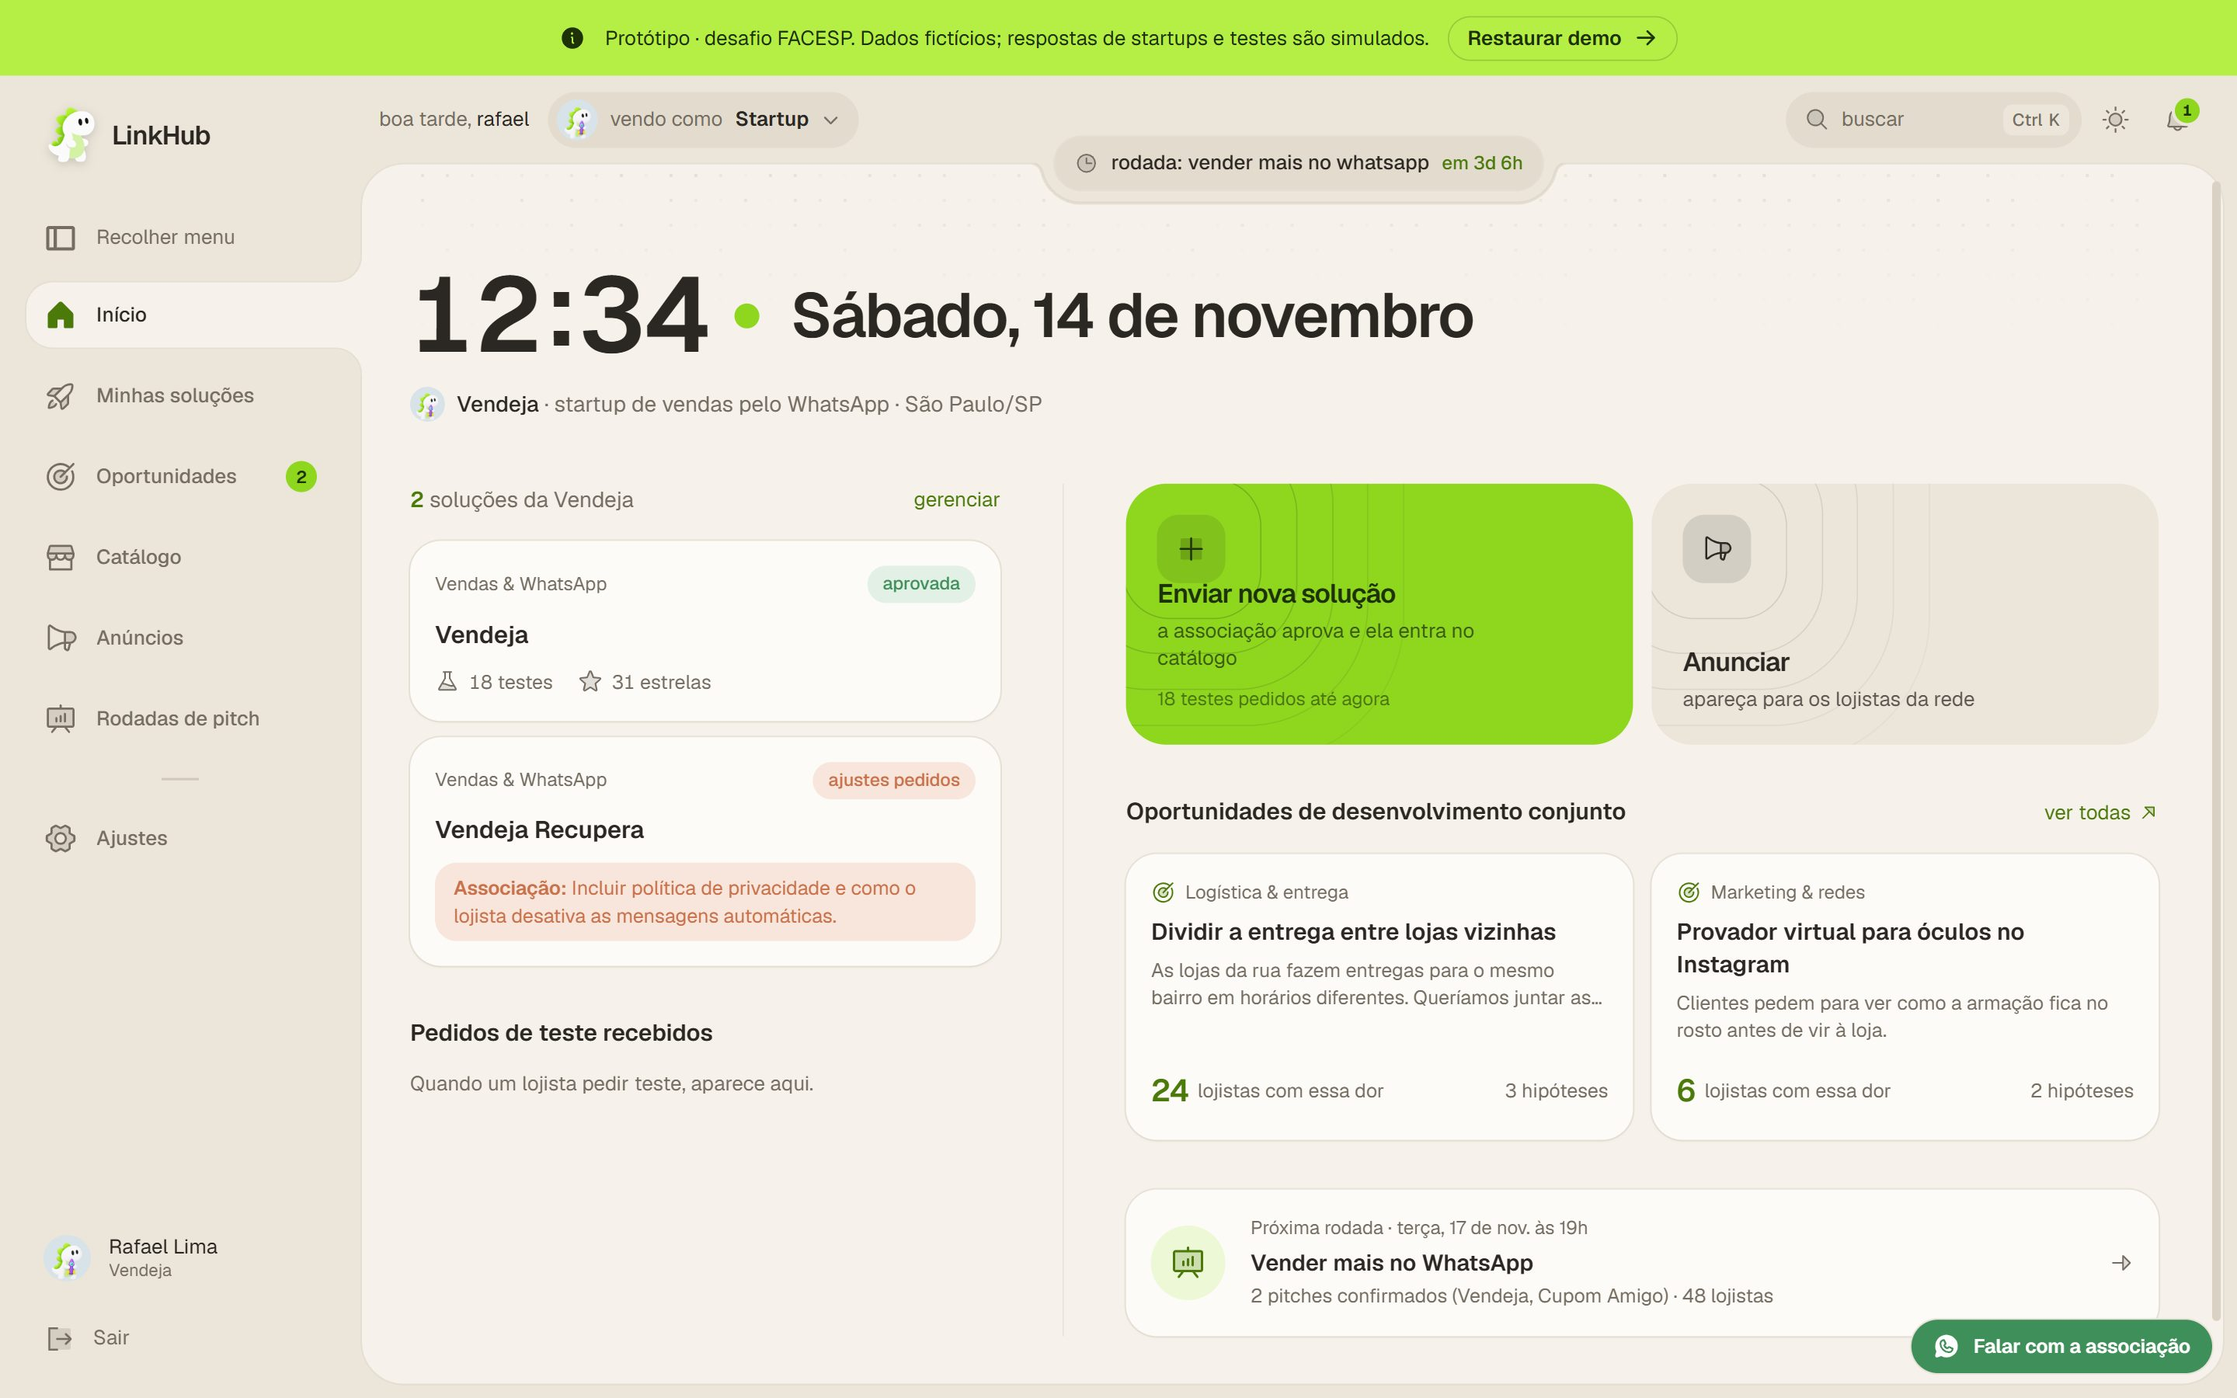
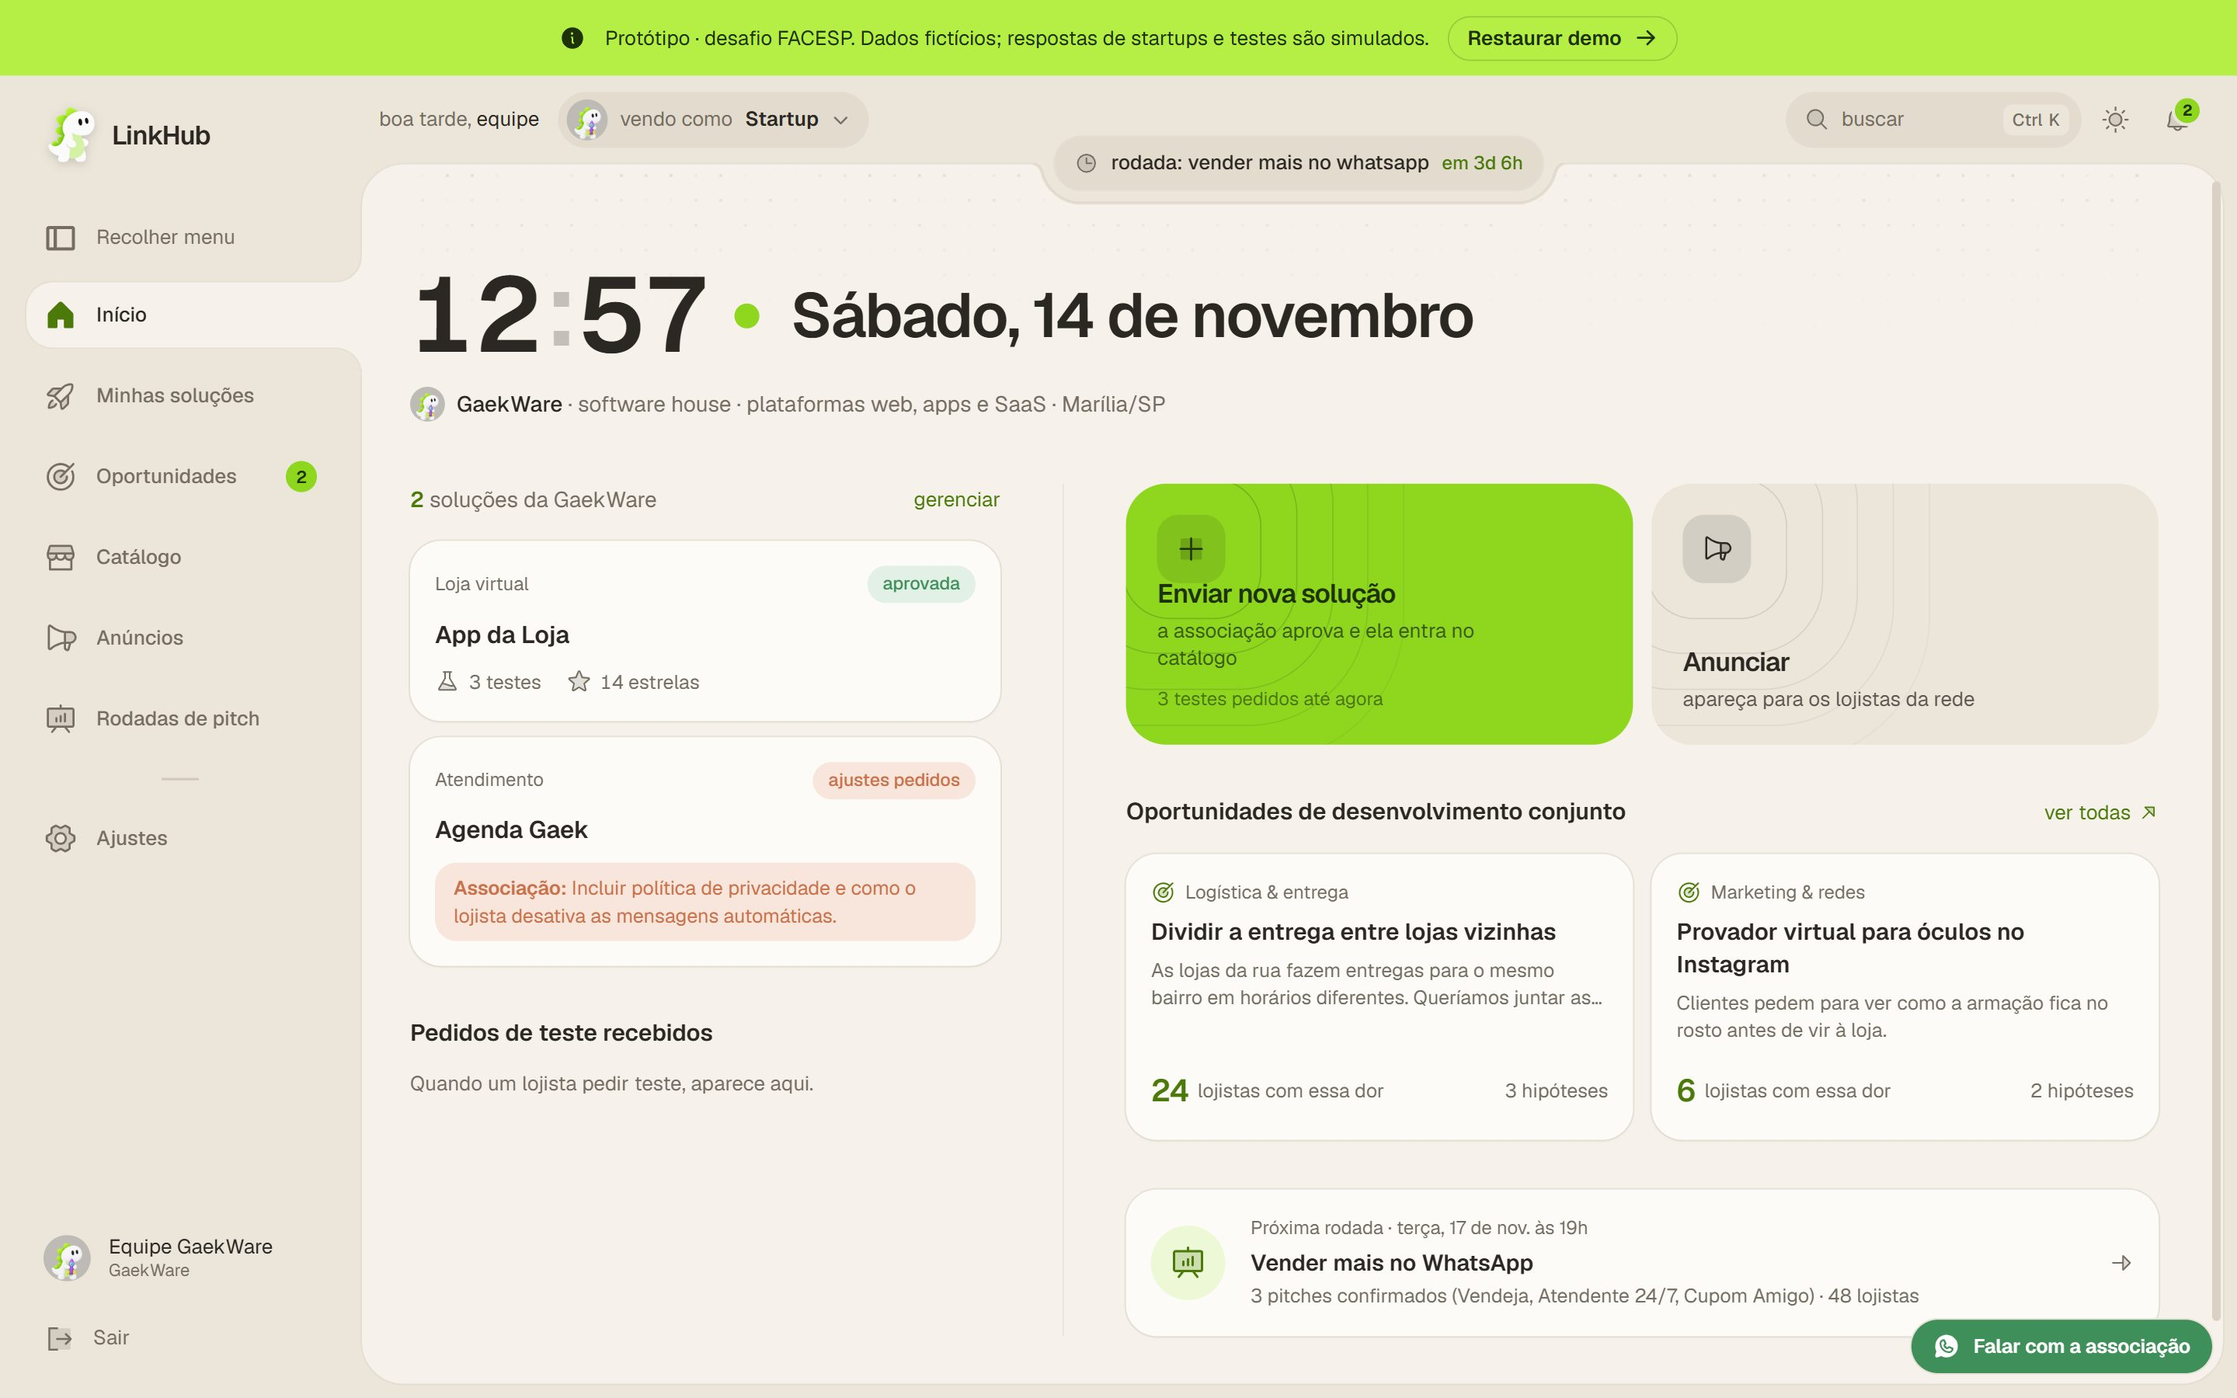
Contexto real de Marília: ACIM Connect, CITAP, GaekWare, SinalTerra e Shield-ACK
- nova seção 'Quem está na rede' com parceiros e startups da região
- quadro e fluxos com bairros e ruas de Marília
- prints atualizados do protótipo

diff --git a/src/content.ts b/src/content.ts
@@ -9,21 +9,21 @@ export type Role = 'lojista' | 'associacao' | 'startup'
 export const ROLES: Record<Role, { label: string; who: string; color: string; emoji?: string; src?: string; line: string }> = {
   lojista: {
     label: 'Lojista',
-    who: 'Marina · Empório Bom Grão',
+    who: 'Marina · Empório Bom Grão, Centro de Marília',
     color: '#E08144',
     emoji: '🧺',
     line: 'Conta o que precisa em uma frase e recebe soluções que cabem na realidade da loja — com o porquê.',
   },
   associacao: {
     label: 'Associação',
-    who: 'Carlos · Associação Comercial de Vale Verde',
+    who: 'Carlos · ACIM Connect Marília',
     color: '#8FA67F',
     emoji: '🏛',
     line: 'Faz a curadoria: aprova startups e anúncios, qualifica demandas sem solução e mede o impacto na rede.',
   },
   startup: {
     label: 'Startup',
-    who: 'Rafael · Vendeja',
+    who: 'Equipe · GaekWare',
     color: '#7FA6C8',
     emoji: '🚀',
     line: 'Entra no catálogo da rede, recebe pedidos de teste e briefings de demandas reais para desenvolver junto.',
@@ -33,14 +33,14 @@ export const ROLES: Record<Role, { label: string; who: string; color: string; em
 /* ───────── quadro "o que os lojistas mais pedem" ───────── */
 export type BoardStatus = 'com solução' | 'em teste' | 'em triagem' | 'oportunidade'
 export const BOARD: { need: string; category: string; emoji: string; segment: string; stores: number; status: BoardStatus }[] = [
-  { need: 'Dividir a entrega entre lojas vizinhas', category: 'Logística & entrega', emoji: '🛵', segment: 'Papelaria · centro', stores: 23, status: 'oportunidade' },
-  { need: 'Vender pelo Instagram sem responder tudo na mão', category: 'Vendas & WhatsApp', emoji: '💬', segment: 'Mercearia', stores: 14, status: 'com solução' },
-  { need: 'Comparar opções de crédito para estoque de fim de ano', category: 'Pagamentos & crédito', emoji: '💳', segment: 'Bazar · MEI', stores: 9, status: 'em triagem' },
-  { need: 'Saber quais produtos estão parados no estoque', category: 'Gestão & estoque', emoji: '📦', segment: 'Mercearia', stores: 6, status: 'em teste' },
-  { need: 'Provador virtual de óculos no Instagram', category: 'Marketing & redes', emoji: '👓', segment: 'Ótica', stores: 5, status: 'oportunidade' },
-  { need: 'Lembrar clientes de voltar à loja', category: 'Vendas & WhatsApp', emoji: '🔁', segment: 'Ótica', stores: 4, status: 'com solução' },
-  { need: 'Cobrar o fiado sem constrangimento', category: 'Pagamentos & crédito', emoji: '📒', segment: 'Mercearia · MEI', stores: 12, status: 'com solução' },
-  { need: 'Saber o melhor dia para fazer promoção', category: 'Dados & inteligência', emoji: '📊', segment: 'Moda', stores: 7, status: 'em teste' },
+  { need: 'Dividir a entrega entre lojas vizinhas', category: 'Logística & entrega', emoji: '🛵', segment: 'Papelaria · Av. Sampaio Vidal', stores: 23, status: 'oportunidade' },
+  { need: 'Vender pelo Instagram sem responder tudo na mão', category: 'Vendas & WhatsApp', emoji: '💬', segment: 'Mercearia · Centro', stores: 14, status: 'com solução' },
+  { need: 'Cobrar o fiado sem constrangimento', category: 'Pagamentos & crédito', emoji: '📒', segment: 'Mercearia · Palmital', stores: 12, status: 'com solução' },
+  { need: 'Comparar opções de crédito para estoque de fim de ano', category: 'Pagamentos & crédito', emoji: '💳', segment: 'Bazar · Palmital', stores: 9, status: 'em triagem' },
+  { need: 'Mostrar ao produtor o resultado dos insumos', category: 'Dados & inteligência', emoji: '🛰', segment: 'Revenda agro · Distrito Industrial', stores: 8, status: 'em teste' },
+  { need: 'Responder clientes no WhatsApp fora do horário', category: 'Atendimento', emoji: '🌙', segment: 'Pet shop · Fragata', stores: 7, status: 'com solução' },
+  { need: 'Saber quais produtos estão parados no estoque', category: 'Gestão & estoque', emoji: '📦', segment: 'Mercearia · Centro', stores: 6, status: 'em teste' },
+  { need: 'Provador virtual de óculos no Instagram', category: 'Marketing & redes', emoji: '👓', segment: 'Ótica · Marília Shopping', stores: 5, status: 'oportunidade' },
 ]
 
 /* ───────── como o ecossistema conversa (diagrama de sequência) ───────── */
@@ -53,7 +53,7 @@ export const FLOWS: Record<'com' | 'sem', { title: string; summary: string; step
       { from: 'lojista', to: 'linkhub', text: '“Quero vender pelo Instagram sem responder tudo na mão.”', detail: 'categoria, canais, porte e orçamento em 3 passos' },
       { from: 'linkhub', to: 'lojista', text: '3 soluções compatíveis, com o porquê', detail: '✓ funciona no WhatsApp e Instagram · ✓ cabe no orçamento · ✗ pensado para empresa pequena' },
       { from: 'lojista', to: 'startup', text: 'Pedido de teste grátis em 1 clique', detail: 'a startup recebe o perfil da loja, não dados de clientes' },
-      { from: 'startup', to: 'lojista', text: '“Liberamos 14 dias. Te chamamos no WhatsApp para configurar!”' },
+      { from: 'startup', to: 'lojista', text: '“Liberamos 14 dias. Te chamamos no WhatsApp para configurar!”', detail: 'ex.: Atendente 24/7 da Shield-ACK para responder fora do horário' },
       { from: 'lojista', to: 'associacao', text: 'Avaliação pós-teste', detail: 'vira reputação no catálogo: “18 lojas testaram, 11 continuaram”' },
     ],
   },
@@ -62,10 +62,10 @@ export const FLOWS: Record<'com' | 'sem', { title: string; summary: string; step
     summary: 'A necessidade não se perde: vira um briefing qualificado e uma oportunidade de desenvolvimento conjunto.',
     steps: [
       { from: 'lojista', to: 'linkhub', text: '“Queria dividir a entrega com as lojas vizinhas.”' },
-      { from: 'linkhub', to: 'associacao', text: 'Nenhuma solução compatível → triagem', detail: 'outros 23 lojistas marcaram “tenho a mesma necessidade”' },
+      { from: 'linkhub', to: 'associacao', text: 'Nenhuma solução compatível → triagem na ACIM Connect', detail: 'outros 23 lojistas do centro de Marília marcaram “tenho a mesma necessidade”' },
       { from: 'associacao', to: 'startup', text: 'Oportunidade publicada com hipóteses a validar', detail: 'perfil das lojas, canais, orçamento, nº de lojistas e lojas-piloto' },
-      { from: 'startup', to: 'associacao', text: '“Quero desenvolver junto.”', detail: 'conversa, piloto com lojas voluntárias e validação das hipóteses' },
-      { from: 'associacao', to: 'lojista', text: 'Solução nova entra no catálogo da rede', detail: 'e pode subir em uma rodada de pitch para toda a associação' },
+      { from: 'startup', to: 'associacao', text: 'GaekWare: “Quero desenvolver junto.”', detail: 'conversa, piloto com lojas voluntárias e validação das hipóteses' },
+      { from: 'associacao', to: 'lojista', text: 'Solução nova entra no catálogo da rede', detail: 'e sobe numa rodada de pitch no Connect ou no CITAP' },
     ],
   },
 }
@@ -184,3 +184,57 @@ export const FACTS = [
   { n: '81%', label: 'das empresas de 10–49 pessoas que vendem online usam mensagens ou chats', src: 'TIC Empresas 2025' },
   { n: '30%', label: 'usam site próprio — os canais podem se sobrepor', src: 'TIC Empresas 2025' },
 ]
+
+/* ───────── quem está na rede (Marília e Alta Paulista) ───────── */
+export type NetworkItem = { name: string; kind: string; initials: string; color: string; text: string; role: string; url?: string }
+export const NETWORK: { partners: NetworkItem[]; startups: NetworkItem[] } = {
+  partners: [
+    {
+      name: 'ACIM Connect Marília',
+      kind: 'associação comercial',
+      initials: 'AC',
+      color: '#4b7a0a',
+      text: 'Ambiente de inovação da ACIM — Associação Comercial e de Inovação de Marília — que aproxima startups, investidores e empreendedores, com aceleração focada em soluções para o varejo.',
+      role: 'No LinkHub: faz a curadoria, a triagem das demandas e organiza as rodadas de pitch.',
+      url: 'https://acim.org.br/',
+    },
+    {
+      name: 'CITAP',
+      kind: 'centro de inovação · Pompeia',
+      initials: 'CI',
+      color: '#2f7d5b',
+      text: 'Centro de Inovação Tecnológica da Alta Paulista, primeiro ambiente da região credenciado no SPAI, com foco em Agro 4.0, Saúde e Cidades Inteligentes.',
+      role: 'No LinkHub: sedia rodadas de Agro 4.0 e apoia pilotos com laboratórios e startups incubadas.',
+      url: 'https://citap.org.br',
+    },
+  ],
+  startups: [
+    {
+      name: 'GaekWare',
+      kind: 'software house · Marília',
+      initials: 'Gw',
+      color: '#0b0b0c',
+      text: 'Cria plataformas web, apps mobile e sistemas SaaS — da tela em branco à produção em 6 a 12 semanas.',
+      role: 'No LinkHub: pega oportunidades sem solução no catálogo e desenvolve junto com os lojistas.',
+      url: 'https://gaek.com.br',
+    },
+    {
+      name: 'SinalTerra',
+      kind: 'agtech · ecossistema CITAP',
+      initials: 'ST',
+      color: '#1f5a37',
+      text: 'Captura e análise de dados de campo com sensoriamento remoto e imagens de satélite para validar produtos agrícolas.',
+      role: 'No LinkHub: ajuda revendas agropecuárias a mostrar ao produtor o resultado dos insumos.',
+      url: 'https://sinalterra.com',
+    },
+    {
+      name: 'Shield-ACK',
+      kind: 'segurança de software',
+      initials: 'SA',
+      color: '#1d3f6b',
+      text: 'Consultoria em desenvolvimento de software seguro (AppSec, DevSecOps, OWASP SAMM) e agentes de atendimento 24/7 no WhatsApp.',
+      role: 'No LinkHub: atendimento automatizado para lojistas e apoio ao item de segurança e LGPD da curadoria.',
+      url: 'https://www.shield-ack.com.br',
+    },
+  ],
+}

diff --git a/src/sections/Network.tsx b/src/sections/Network.tsx
@@ -1,0 +1,82 @@
+import { ArrowUpRight } from '@phosphor-icons/react'
+import { motion } from 'motion/react'
+import { NETWORK, type NetworkItem } from '../content'
+import { EASE, Reveal, SectionHead } from '../ui'
+
+function Card({ it, i }: { it: NetworkItem; i: number }) {
+  const body = (
+    <>
+      <span className="relative block h-14 overflow-hidden" style={{ background: it.color }}>
+        <span aria-hidden className="absolute inset-0 opacity-70" style={{ background: 'radial-gradient(120% 140% at 100% 0%, rgb(255 255 255 / 0.26), transparent 55%)' }} />
+        <span aria-hidden className="absolute -right-4 -bottom-7 size-20 rounded-full border border-white/20" />
+        <span aria-hidden className="absolute right-6 -bottom-10 size-20 rounded-full border border-white/15" />
+      </span>
+      <span className="relative -mt-6 grid gap-2 px-5 pb-5">
+        <span className="grid size-12 place-items-center rounded-[13px] text-[15px] font-semibold tracking-[-0.02em] text-white ring-4 ring-card" style={{ background: it.color }}>
+          {it.initials}
+        </span>
+        <span className="grid gap-0.5">
+          <span className="flex items-center gap-1.5">
+            <b className="text-[16px] font-semibold tracking-[-0.01em]">{it.name}</b>
+            {it.url && <ArrowUpRight className="size-3.5 text-faint transition-colors group-hover:text-accent-ink" />}
+          </span>
+          <span className="font-mono text-[9px] tracking-[0.08em] text-faint uppercase">{it.kind}</span>
+        </span>
+        <span className="text-[13px] leading-[1.6] text-mute">{it.text}</span>
+        <span className="mt-1 border-t border-line pt-3 text-[12.5px] leading-[1.55]">
+          <b className="font-semibold text-accent-ink">No LinkHub: </b>
+          {it.role.replace(/^No LinkHub:\s*/, '')}
+        </span>
+      </span>
+    </>
+  )
+  const cls = 'group block h-full overflow-hidden rounded-[20px] bg-card text-left shadow-card transition-shadow'
+  return (
+    <motion.div
+      initial={{ opacity: 0, y: 12 }}
+      whileInView={{ opacity: 1, y: 0 }}
+      viewport={{ once: true, margin: '-40px' }}
+      transition={{ duration: 0.5, ease: EASE, delay: (i % 3) * 0.07 }}
+    >
+      {it.url ? (
+        <a href={it.url} target="_blank" rel="noopener noreferrer" className={`${cls} hover:shadow-lift`}>
+          {body}
+        </a>
+      ) : (
+        <div className={cls}>{body}</div>
+      )}
+    </motion.div>
+  )
+}
+
+/** Ecossistema real de Marília e da Alta Paulista. */
+export function Network() {
+  return (
+    <section id="rede" className="scroll-mt-20 pt-24">
+      <SectionHead
+        eyebrow="quem está na rede · Marília e Alta Paulista"
+        title="Um ecossistema que já existe."
+        text="O LinkHub nasce em Marília: a ACIM Connect no centro, o CITAP apoiando pilotos de Agro 4.0 e startups da região resolvendo dores reais do comércio local."
+      />
+      <Reveal className="mt-8">
+        <span className="eyebrow">parceiros</span>
+      </Reveal>
+      <div className="mt-3 grid gap-3 md:grid-cols-2">
+        {NETWORK.partners.map((it, i) => (
+          <Card key={it.name} it={it} i={i} />
+        ))}
+      </div>
+      <Reveal className="mt-8">
+        <span className="eyebrow">startups</span>
+      </Reveal>
+      <div className="mt-3 grid gap-3 md:grid-cols-3">
+        {NETWORK.startups.map((it, i) => (
+          <Card key={it.name} it={it} i={i} />
+        ))}
+      </div>
+      <p className="mt-4 text-[11.5px] leading-[1.6] text-faint">
+        As descrições das empresas foram tiradas dos sites de cada uma.
+      </p>
+    </section>
+  )
+}

diff --git a/src/App.tsx b/src/App.tsx
@@ -6,11 +6,13 @@ import { Board } from './sections/Board'
 import { Closing } from './sections/Closing'
 import { Ecosystem } from './sections/Ecosystem'
 import { Info } from './sections/Info'
+import { Network } from './sections/Network'
 import { Screens } from './sections/Screens'
 import { EASE, Logo } from './ui'
 
 const NAV = [
   { href: '#ecossistema', label: 'Como funciona' },
+  { href: '#rede', label: 'Marília' },
   { href: '#telas', label: 'Telas' },
   { href: '#ideias', label: 'Ideias' },
   { href: '#desafio', label: 'Desafio' },
@@ -94,7 +96,7 @@ function Hero() {
         className="inline-flex items-center gap-1.5 rounded-full border border-line-strong py-[3px] pr-3 pl-[5px] text-[11px] text-mute"
       >
         <img src="/images/dino-96.png" alt="" className="size-6 object-contain" />
-        protótipo para o desafio <strong className="font-semibold text-text">FACESP</strong>
+        <strong className="font-semibold text-text">ACIM Connect Marília</strong> · desafio FACESP
       </motion.p>
 
       <motion.h1
@@ -143,7 +145,7 @@ function Hero() {
         className="mt-5 flex items-center gap-1.5 text-[11px] text-mute"
       >
         <CalendarBlank className="size-3.5" />
-        Rodada de soluções · toda terça, 19h · na sua associação comercial
+        Rodada de soluções · toda terça, 19h · ACIM Connect Marília
       </motion.p>
     </section>
   )
@@ -159,6 +161,7 @@ export default function App() {
           <Hero />
           <Board />
           <Ecosystem />
+          <Network />
           <Screens />
           <Info />
           <Closing />
